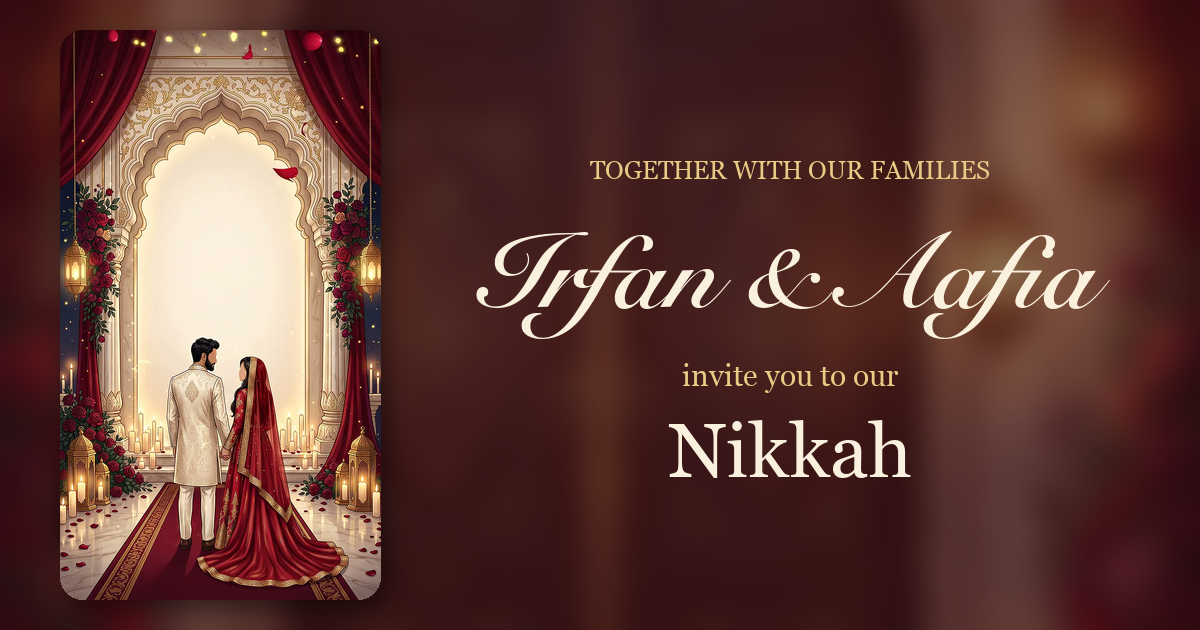
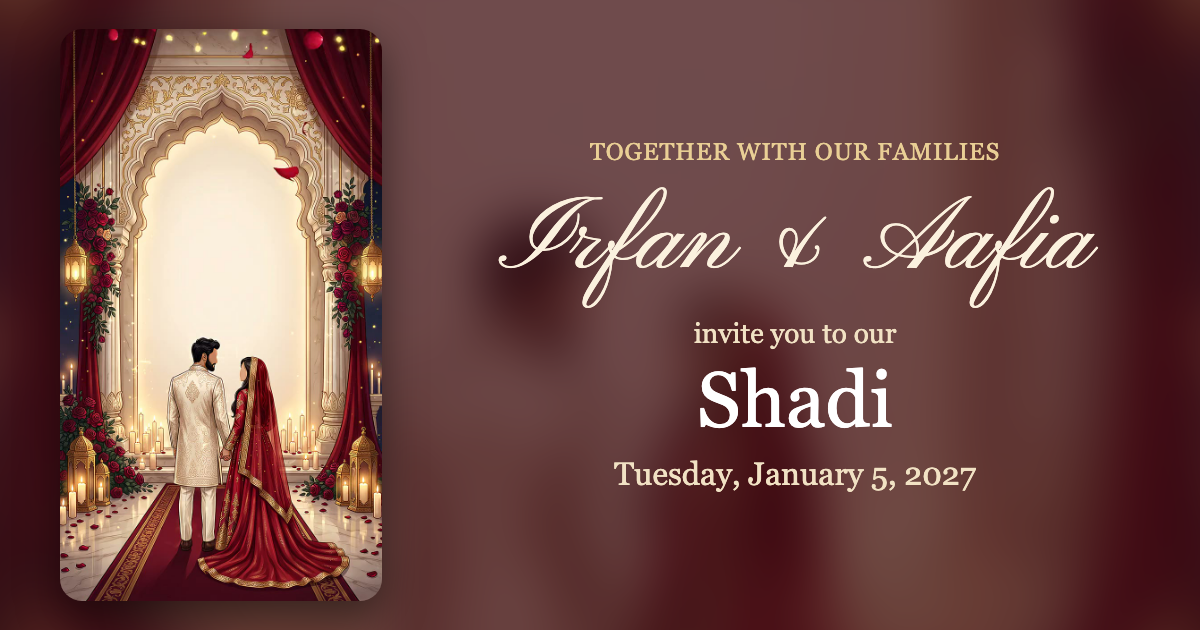
Shadi link preview picture now says Shadi

diff --git a/shadi/index.html b/shadi/index.html
@@ -11,7 +11,7 @@
   <meta property="og:title" content="Irfan &amp; Aafia · Shadi">
   <meta property="og:description" content="You are invited to our Shadi on Tuesday, January 5, 2027 at 5:00 pm.">
   <meta property="og:url" content="https://irfanaafia.com/shadi/">
-  <meta property="og:image" content="https://irfanaafia.com/shadi/og.png">
+  <meta property="og:image" content="https://irfanaafia.com/shadi/og-shadi.png">
   <meta property="og:image:width" content="1200">
   <meta property="og:image:height" content="630">
   <meta name="twitter:card" content="summary_large_image">
